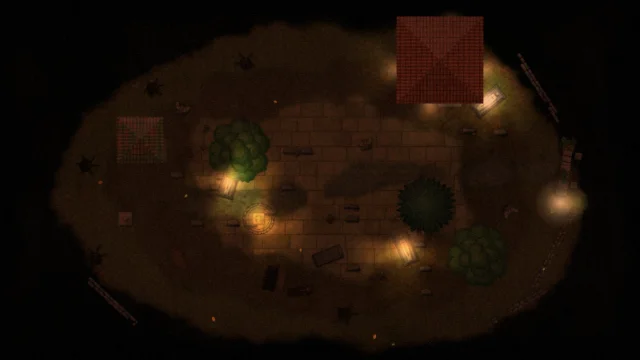
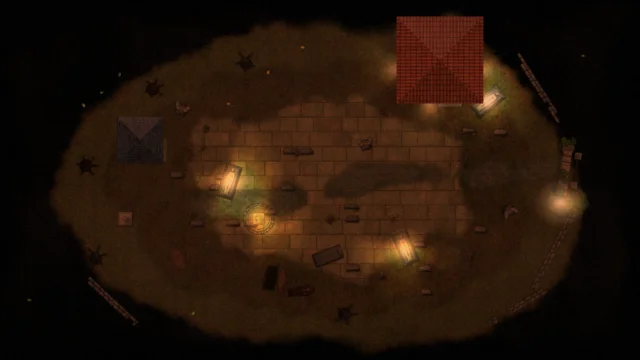
cleaned up the hilltop graveyard
no green trees from the scatter set, slate roof on the family tomb and warmer, brighter night light

diff --git a/scripts/exemplos/cemiterio-da-colina.ts b/scripts/exemplos/cemiterio-da-colina.ts
@@ -26,14 +26,15 @@ export const cemiterioDaColina: Exemplo = {
     // A capela ao norte e o jazigo da família a oeste.
     k.aplicar((m, id) => construirEdificios(m, [
       { nome: 'Capela', origem: [20, 1], lote: [5, 5], frente: 's', forma: 'linear', telhado: 'telha.barro', comodos: [{ tipo: 'capela', area: 40, principal: true }] },
-      { nome: 'Jazigo da família', origem: [6, 6], lote: [3, 3], frente: 'l', forma: 'compacta', telhado: 'telha.velha', comodos: [{ tipo: 'capela', area: 12, nome: 'Jazigo', principal: true }] },
+      { nome: 'Jazigo da família', origem: [6, 6], lote: [3, 3], frente: 'l', forma: 'compacta', telhado: 'telha.ardosia', comodos: [{ tipo: 'capela', area: 12, nome: 'Jazigo', principal: true }] },
     ], 7, id));
     k.tirarExternosDosInteriores();
 
-    // Lápides, túmulos e covas, sem fila mecânica.
-    k.espalhar('cemiterio', { poligono: [[12, 11], [20, 8.5], [24, 12], [20, 18], [13, 18]] }, { densidade: 0.12, escala: 1.6 });
-    k.espalhar('cemiterio', { poligono: [[26, 15], [34, 14.5], [38, 18], [32, 22], [25, 21]] }, { densidade: 0.11, escala: 1.6 });
-    k.espalhar('cemiterio', { poligono: [[33, 8], [39, 8.5], [40, 11.5], [34, 11.2]] }, { densidade: 0.14, escala: 1.6 });
+    // Lápides, túmulos e covas, sem fila mecânica. O conjunto também espalha árvores verdes, que aqui não cabem (a mata é morta).
+    const semArvores = (ids: string[]) => k.remover(ids.filter(id => { const f = k.construir().props[id]?.source; return f?.kind === 'asset'; }));
+    semArvores(k.espalhar('cemiterio', { poligono: [[12, 11], [20, 8.5], [24, 12], [20, 18], [13, 18]] }, { densidade: 0.12, escala: 1.6 }));
+    semArvores(k.espalhar('cemiterio', { poligono: [[26, 15], [34, 14.5], [38, 18], [32, 22], [25, 21]] }, { densidade: 0.11, escala: 1.6 }));
+    semArvores(k.espalhar('cemiterio', { poligono: [[33, 8], [39, 8.5], [40, 11.5], [34, 11.2]] }, { densidade: 0.14, escala: 1.6 }));
     for (const [x, y, r] of [[15.4, 9.6, 0.2], [22.2, 11.4, -0.3], [28.6, 20.6, 0.4], [35.2, 19.2, -0.2], [12.4, 15.2, 0.1], [24.8, 16.4, 0.5]] as const) k.objeto(x > 24 ? 'cruz.pedra' : 'cruz.madeira', [x, y], { rotation: r, scale: 1.5 });
     for (const [x, y, r] of [[17.2, 13.6, 0.3], [30.4, 18.6, -0.4], [36.6, 7.6, 0.9]] as const) k.objeto('sarcofago', [x, y], { rotation: r, scale: 1.1 });
     k.objeto('tumulo', [24.6, 19.2], { rotation: 1.2 });
@@ -67,7 +68,7 @@ export const cemiterioDaColina: Exemplo = {
     k.luz('lanterna', [31.6, 6.0], { radius: 5 });
     k.presenca('musgo', { poligono: colina, irregular: 0.6 }, 0.3);
 
-    k.clima('noite', { time: '23:40', ambient: { color: '#9a6a52', intensity: 0.58 }, tempo: { fog: 0.15, leaves: 0.1, wind: 0.1 } });
+    k.clima('noite', { time: '23:40', ambient: { color: '#b07a5c', intensity: 0.74 }, tempo: { fog: 0.15, leaves: 0.1, wind: 0.1 } });
     k.acabamento(null, { tint: '#ffc8a8', saturation: 1.05, vignette: 0.55, edges: { kind: 'dark', amount: 0.55 }, glow: 0.75 });
     k.guardarClima('enterro-ao-entardecer', 'Enterro ao entardecer', 'entardecer', { finish: { edges: { kind: 'dark', amount: 0.4 } } });
     k.guardarClima('nevoeiro-dos-mortos', 'Nevoeiro dos mortos', 'neblina', { time: '03:00', sun: null, ambient: { color: '#56606a', intensity: 0.3 } });
